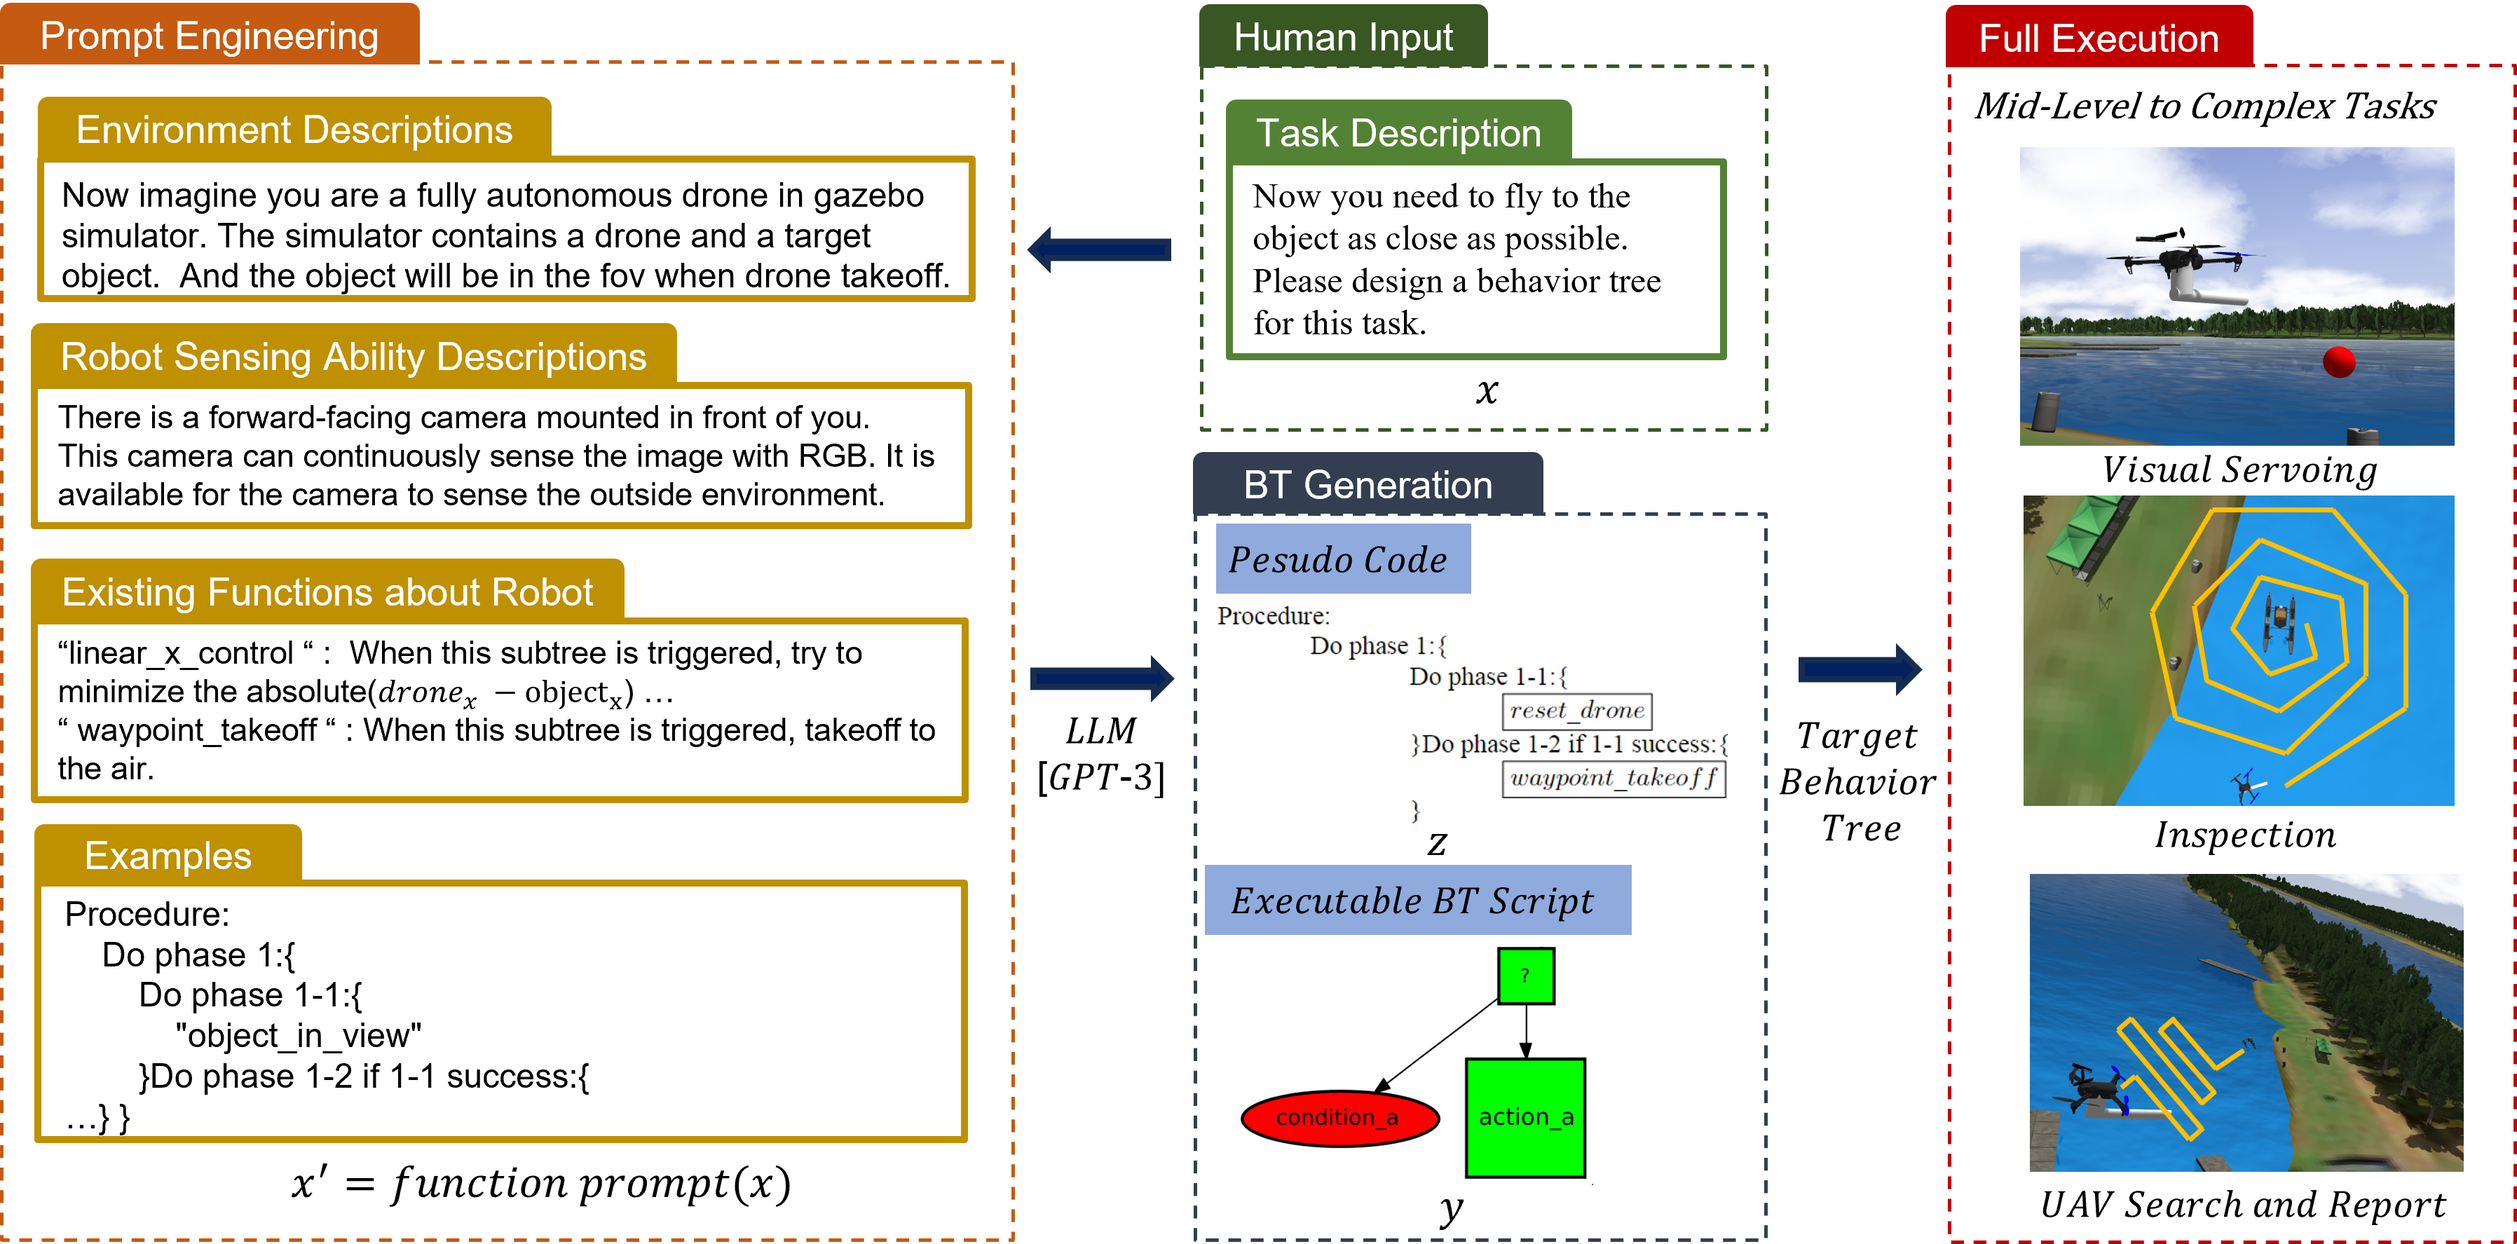
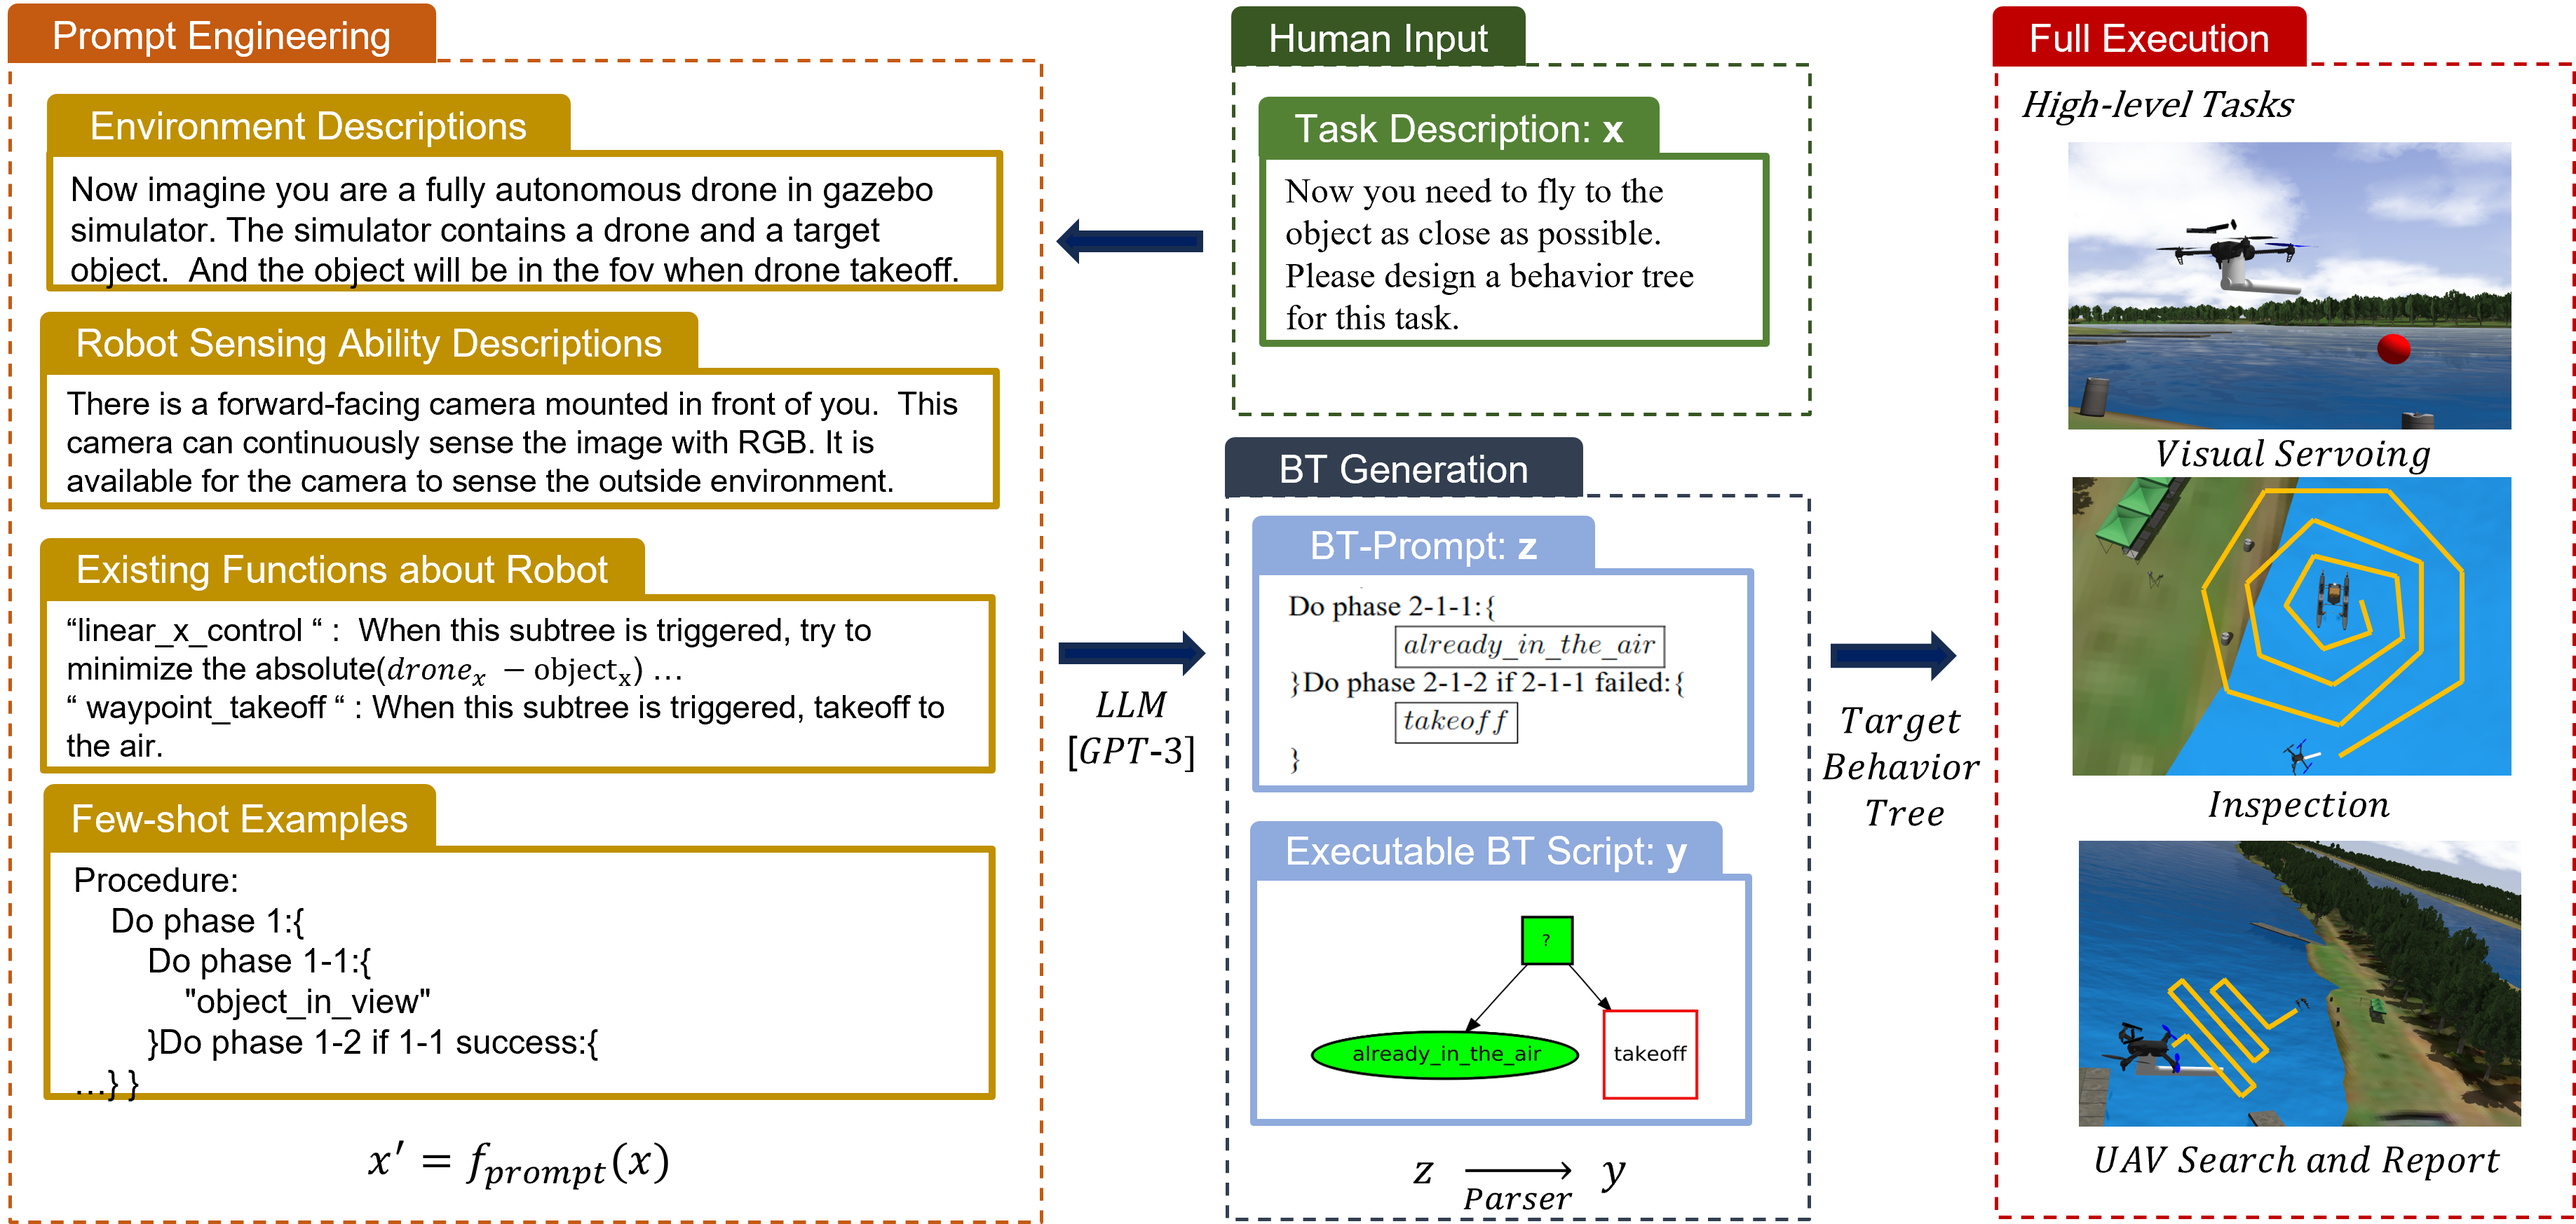
add appendix & update title,abstract,author,teaser

diff --git a/projects/llm.html b/projects/llm.html
@@ -57,33 +57,115 @@
 			<div class="blank">
 				<div class="wrapper-center">
 					<h0 style="text-align: center">
-						An High-level Task Planner using LLM-Generated Behavior Tree for Aerial Navigation and Manipulation
+						BT-Prompt: Hierarchical Behavior Tree Generation for High-level Task Planning using Large Language Models
 					</h0>
 					<h2>
-						Ming-Fong Hsieh, Kuan-Ting Yu, Hsueh-Cheng Wang
+						Ming-Fong Hsieh<sup>1</sup>, Wei-Li Liu<sup>1</sup>, Sun-Fu Chou<sup>1</sup>, Chang-Jin Wu<sup>1</sup>, Yu-Ting Ko<sup>1</sup>,
+						Kuan-Ting Yu<sup>2</sup>, Hsueh-Cheng Wang<sup>*,1</sup>
 					</h2>
+					<h4>_________________________________________________________________</h4>
+
+					<h4>
+						<sup>1</sup>National Yang Ming Chiao Tung University (NYCU), Hsinchu, Taiwan.
+					</h4>
+					<h4>
+						<sup>2</sup>XYZ Robotics
+					</h4>
+
 				<br><br>
 				</div>
 
 				<h1>Abstract</h1>
 				<p>
-					This research delves into the domain of prompt engineering and its empirical application in Large Language
-					Models (LLMs) for complex hierarchical task planning. The study systematically investigates prompt designs in LLMs, with a specific
-					focus on their effectiveness in designing high-level agents. The integration of a simulation tool that combines Gazebo VRX with 
-					ChatGPT functionality is also presented, creating a novel VRX-ChatGPT simulation environment to explore ChatGPT’s potential
-					in enabling maritime robotics scenarios, particularly in the realm of USV/UAV navigation. Additionally, the research offers practical
-					examples of positive and negative prompting strategies in the context of aerial manipulation, showcased through the innovative
-					PromptCraft platform for the robotics community. The findings shed light on the empirical aspects of prompt engineering and
-					provide valuable insights for leveraging LLMs in task planning, execution, and designing autonomous agents across various robotic
-					applications.
+					Recent advances of Large Language Models (LLMs) significantly impacted various robotic applications and task
+					planning. However, a predominant focus on sequential processes has limited their potential for high-level, complex plans. This
+					research delves into the systematic investigations of prompt engineering for LLM-generated behavior trees (BTs). In Experi-
+					ment 1, we carefully designed BT-Prompt, which demonstrate the effectiveness of LLM-generated BTs over other formats within
+					few-shot scenarios. Experiment 2 underscores the significance of hierarchy, highlighting that mid-level subtrees play a pivotal
+					role in successfully executing complex tasks across various LLM backbones and temperature settings. Notably, among
+					the suboptimal BTs, it is noteworthy that LLMs attempted to autonomously generate mid-level subtrees without human
+					guidance. These autonomously generated mid-level subtrees then become a central element in Experiment 3, where we confront
+					the challenges presented by more complex tasks encountered in a robotics competition. In this context, it became evident that the
+					pre-existing hand-coded mid-level subtrees were insufficient, whereas integrating the LLM-generated mid-level subtrees into existing
+					functions resulting in enhanced task execution for these intricate challenges. Finally,this research collected illustrative examples
+					of positive and negative prompting strategies of LLM-generated BTs, with demonstrations of successful executions in virtual and
+					real environments
 				</p>
 								
 				<div class="wrapper-center">
 					<img src="img/llm-teaser.png" alt="teaser" height="350">
 				</div>
+				<br><br>
+				<h1>Appendix A : Two main failure types </h1>
 
-				
+				<p> <b>Type 1 - The inclusion of unnecessary subtrees or a lack of
+					necessary subtrees can result in task failure.</b><br>
+					Adding unnecessary subtrees or lacking essential
+					subtrees results in task failure. When LLM generates the
+					”inspection” task, it incorporates the subtree related to the
+					red-boxed area into the task plan. However, as this subtree is
+					designed for ”tracking object,” it requires a target object to
+					fulfill the task’s completion requirement. Since the ”inspection”
+					task does not involve detecting objects, the behavior tree may
+					halt at this stage due to the absence of a target object, causing
+					it to be unable to progress further.</p>
 
+					<div class="wrapper-center">
+					<img src="img/method_failure_1.png" alt="teaser" height="400"></div>
+
+				<p><b>Type 2 - Misinterpretation of the logic expressed through
+					example tasks can result in task failure.</b><br>
+					Misinterpretation of the logic expressed through example
+					tasks. When LLM generates the ”object navigation” task, it
+					misinterprets the logic expression symbols within the red-
+					boxed area (from fallback to sequence). Due to this incorrect
+					interpretation of the logic expression symbols, the behavior
+					tree is unable to transition to the tracking state even when it
+					detects the target object.</p>
+					
+					<div class="wrapper-center">
+					<img src="img/method_failure_2.png" alt="teaser" height="380"></div>
+				<br>
+				<h1>Appendix B : Tasks description for 2022 RobotX Challenge</h1>
+				<p><b>Detect and Dock (Dock.): </b> <br>
+					In this task, there's a floating platform with three bays, each having a different color (red, green, or blue). 
+					The AMS detects the color and docks in the bay with the matching color.
+				<p><b>Scan the code (Scan.): </b> <br>	
+					In this task, there's a three-sided light tower on a floating platform that displays a sequence of RGB lights. 
+					The AMS observes the colors and their order and use this sequence for other tasks in later rounds.
+				<p><b>Find and Fling(Shoot.): </b> <br>
+					In this task, there's a floating platform with three panels, each having a colored square and two holes. 
+					The AMS detects a designated color and shoots racquetballs through the panel's holes. 
+					Each team gets four racquetballs for this.
+				<p><b>Entrance and Exit Gates(Gate.): </b> <br>
+					In this task, the AMS needs to go through gates marked by colored buoys and underwater beacons. 
+					The AMS must detect the underwater beacon signals between these gates and enter through them before moving 
+					on to other tasks. The task's complexity increases in each round and includes elements from other tasks.
+					The beacons have different frequencies and activate one at a time during the task.There are three gates:
+					<br>&nbsp &nbsp Gate 1 has a red and a white buoy.
+					<br>&nbsp &nbsp Gate 2 has two white buoys.
+					<br>&nbsp &nbsp Gate 3 has a white and a green buoy.
+
+				<p><b>Wildlife Encounter (Wildlife.): </b> <br>
+					Task involves three floating platforms that look like Australian marine animals: 
+					a platypus, turtle, and crocodile. 
+					The AMS detects and reacts to them using  Hyperspectral Imaging (HSI) camera . 
+					Teams can use a UAV for help. After detection, the AMS circles the platypus clockwise, 
+					the turtle counterclockwise, and the crocodile twice in any direction.
+				<p><b>UAV Search and Report(Search.): </b> <br>
+					In this land-based UAV task mimicking a search and rescue operation, 
+					the UAV starts from one point, searches a marked field with orange markers, finds two objects there, 
+					and lands at another designated point. Teams can use any search pattern within the field boundaries. 
+					They report the objects they locate and their exact positions.
+				<p><b>Follow the Path (Follow.): </b> <br>
+					This task requires the Autonomous Maritime System (AMS) to follow a designated path of white buoys, 
+					pass through six pairs of red and green buoys, and exit through another set of white buoys. 
+					The AMS must steer clear of randomly placed obstacles, symbolized by round black buoys. 
+					Teams have the option to employ a UAV for assistance in completing this task.
+				<p><b>UAV Replenishment(Deliver.): </b> <br>
+					This task involves using a UAV. The UAV takes off from a USV, finds a floating helipad, picks up a small colored tin, 
+					delivers the tin to a circular target area on another floating helipad, and then returns to the USV.
+					
 			<div class="footer">
 
 				<span class="left">
